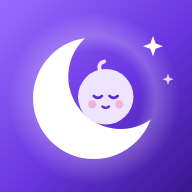
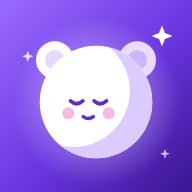
Add files via upload

Changed region(s): [[0.125, 0.125, 0.9062, 0.8438], [0.8438, 0.375, 0.9062, 0.4375], [0.8438, 0.7812, 0.875, 0.8438]]

diff --git a/index.html b/index.html
@@ -6,11 +6,11 @@
 <meta name="theme-color" content="#2a1766">
 <meta name="mobile-web-app-capable" content="yes">
 <meta name="apple-mobile-web-app-capable" content="yes">
-<meta name="apple-mobile-web-app-title" content="Dodo">
+<meta name="apple-mobile-web-app-title" content="Doudodo">
 <link rel="manifest" href="manifest.webmanifest">
 <link rel="icon" type="image/png" href="icon-192.png">
 <link rel="apple-touch-icon" href="apple-touch-icon.png">
-<title>Dodo - suivi bébé</title>
+<title>Doudodo - sommeil de bébé</title>
 <style>
 :root{
   --bg:#f6f2ff; --card:#ffffff; --raised:#efe8ff; --text:#1f1440; --muted:#62577f; --line:#e6defa;
@@ -195,7 +195,7 @@ textarea{min-height:90px;resize:vertical}
 <nav id="nav"></nav>
 
 <script>
-const LOGO_SVG = "<svg viewBox=\"0 0 512 512\" aria-hidden=\"true\"><defs><linearGradient id=\"sky\" x1=\"0\" y1=\"0\" x2=\"1\" y2=\"1\"><stop offset=\"0\" stop-color=\"#9a6bff\"/><stop offset=\".55\" stop-color=\"#6a35e0\"/><stop offset=\"1\" stop-color=\"#3a168f\"/></linearGradient><radialGradient id=\"halo\"><stop offset=\".55\" stop-color=\"#fff\" stop-opacity=\".0\"/><stop offset=\".72\" stop-color=\"#fff\" stop-opacity=\".22\"/><stop offset=\"1\" stop-color=\"#fff\" stop-opacity=\"0\"/></radialGradient><mask id=\"cr\"><rect width=\"512\" height=\"512\" fill=\"#000\"/><circle cx=\"250\" cy=\"262\" r=\"162\" fill=\"#fff\"/><circle cx=\"322\" cy=\"204\" r=\"140\" fill=\"#000\"/></mask></defs><rect width=\"512\" height=\"512\" fill=\"url(#sky)\"/><circle cx=\"250\" cy=\"262\" r=\"230\" fill=\"url(#halo)\"/><rect width=\"512\" height=\"512\" fill=\"#fff\" mask=\"url(#cr)\"/><circle cx=\"282\" cy=\"258\" r=\"74\" fill=\"#efe4ff\"/><path d=\"M268 190q-10-20 10-26\" fill=\"none\" stroke=\"#efe4ff\" stroke-width=\"10\" stroke-linecap=\"round\"/><circle cx=\"246\" cy=\"278\" r=\"11\" fill=\"#f2a3d3\" opacity=\".75\"/><circle cx=\"318\" cy=\"278\" r=\"11\" fill=\"#f2a3d3\" opacity=\".75\"/><path d=\"M250 256q11 10 22 0M292 256q11 10 22 0\" fill=\"none\" stroke=\"#5b2fc7\" stroke-width=\"7\" stroke-linecap=\"round\"/><path d=\"M273 284q9 7 18 0\" fill=\"none\" stroke=\"#5b2fc7\" stroke-width=\"6\" stroke-linecap=\"round\"/><path d=\"M408 96l7 20 20 7-20 7-7 20-7-20-20-7 20-7z\" fill=\"#fff\"/><path d=\"M448 196l4 11 11 4-11 4-4 11-4-11-11-4 11-4z\" fill=\"#fff\" opacity=\".8\"/></svg>";
+const LOGO_SVG = "<svg viewBox=\"0 0 512 512\" aria-hidden=\"true\"><defs><linearGradient id=\"sky\" x1=\"0\" y1=\"0\" x2=\"1\" y2=\"1\"><stop offset=\"0\" stop-color=\"#9a6bff\"/><stop offset=\".55\" stop-color=\"#6a35e0\"/><stop offset=\"1\" stop-color=\"#3a168f\"/></linearGradient><radialGradient id=\"halo\"><stop offset=\".5\" stop-color=\"#fff\" stop-opacity=\".28\"/><stop offset=\"1\" stop-color=\"#fff\" stop-opacity=\"0\"/></radialGradient><mask id=\"cr\"><rect width=\"512\" height=\"512\" fill=\"#000\"/><circle cx=\"256\" cy=\"272\" r=\"150\" fill=\"#fff\"/><circle cx=\"196\" cy=\"242\" r=\"150\" fill=\"#000\"/></mask></defs><rect width=\"512\" height=\"512\" fill=\"url(#sky)\"/><circle cx=\"256\" cy=\"272\" r=\"225\" fill=\"url(#halo)\"/><circle cx=\"146\" cy=\"160\" r=\"50\" fill=\"#fff\"/><circle cx=\"146\" cy=\"160\" r=\"26\" fill=\"#e6d8ff\"/><circle cx=\"366\" cy=\"160\" r=\"50\" fill=\"#e9dcff\"/><circle cx=\"366\" cy=\"160\" r=\"26\" fill=\"#cdb6ff\"/><circle cx=\"256\" cy=\"272\" r=\"150\" fill=\"#fff\"/><rect width=\"512\" height=\"512\" fill=\"#dccbff\" mask=\"url(#cr)\"/><circle cx=\"182\" cy=\"302\" r=\"16\" fill=\"#f2a3d3\" opacity=\".75\"/><circle cx=\"290\" cy=\"302\" r=\"16\" fill=\"#f2a3d3\" opacity=\".75\"/><path d=\"M188 269q16 15 33 0M251 269q16 15 33 0\" fill=\"none\" stroke=\"#5b2fc7\" stroke-width=\"10\" stroke-linecap=\"round\"/><path d=\"M222 311q14 10 27 0\" fill=\"none\" stroke=\"#5b2fc7\" stroke-width=\"9\" stroke-linecap=\"round\"/><path d=\"M432 68l7.840000000000001 20.16 20.16 7.840000000000001-20.16 7.840000000000001-7.840000000000001 20.16-7.840000000000001-20.16-20.16-7.840000000000001 20.16-7.840000000000001z\" fill=\"#fff\" opacity=\"1\"/><path d=\"M74 135l4.2 10.799999999999999 10.799999999999999 4.2-10.799999999999999 4.2-4.2 10.799999999999999-4.2-10.799999999999999-10.799999999999999-4.2 10.799999999999999-4.2z\" fill=\"#fff\" opacity=\"0.8\"/><path d=\"M440 397l3.6400000000000006 9.36 9.36 3.6400000000000006-9.36 3.6400000000000006-3.6400000000000006 9.36-3.6400000000000006-9.36-9.36-3.6400000000000006 9.36-3.6400000000000006z\" fill=\"#fff\" opacity=\"0.7\"/></svg>";
 // <LOGIC>
 const MIN = 60000, H = 3600000, DAY = 86400000;
 
@@ -497,7 +497,7 @@ function learnHTML(now){
   const l = learnInfo(now), name = esc(childName());
   if(l.pct >= 100) return `<div class="learn done"><span class="ic sleep">${icon('spark')}</span><span>Les horaires sont calculés d'après le rythme de ${name}.</span></div>`;
   return `<div class="learn">
-    <div class="head"><span class="ic sleep">${icon('spark')}</span><b>Dodo apprend le rythme de ${name}</b><span class="pct">${l.pct} %</span></div>
+    <div class="head"><span class="ic sleep">${icon('spark')}</span><b>Doudodo apprend le rythme de ${name}</b><span class="pct">${l.pct} %</span></div>
     <div class="bar" role="progressbar" aria-valuenow="${l.pct}" aria-valuemin="0" aria-valuemax="100"><i style="width:${Math.max(l.pct, 3)}%"></i></div>
     <div class="note">${l.got} sieste${l.got > 1 ? 's' : ''} analysée${l.got > 1 ? 's' : ''} sur ${l.total}. En attendant, les horaires proposés viennent des repères de son âge. Enregistre le réveil du matin et chaque sieste pour qu'ils deviennent personnels.</div></div>`;
 }
@@ -541,8 +541,8 @@ function skyHTML(p, now){
     else if(now <= p.to) st = '<span class="state now">C\'est le bon moment</span>';
     else st = `<span class="state late">Créneau dépassé de ${fmtD((now - p.to) / MIN)}</span>`;
     let why = p.w.n >= 3 ? `Calculé d'après ${p.w.n} ${p.bedtime ? 'couchers' : 'siestes'} de ${name}.`
-      : p.w.n > 0 ? 'Calculé surtout d\'après son âge, Dodo manque encore de données.'
-      : 'Calculé d\'après son âge. Dodo affinera avec tes saisies.';
+      : p.w.n > 0 ? 'Calculé surtout d\'après son âge, Doudodo manque encore de données.'
+      : 'Calculé d\'après son âge. Doudodo affinera avec tes saisies.';
     if(p.adjMin <= -5) why += ` Avancé de ${-p.adjMin} min car la dernière sieste a été courte.`;
     if(p.adjMin >= 5) why += ` Retardé de ${p.adjMin} min car la dernière sieste a été longue.`;
     const evening = new Date(now).getHours() >= 17;
@@ -560,7 +560,7 @@ function skyHTML(p, now){
       <p class="why">${why}</p></section>`;
   }
   return `<section class="sky">
-    <p class="lead">Bonjour ! Pour calculer la première sieste, Dodo a besoin de l'heure du réveil.</p>
+    <p class="lead">Bonjour ! Pour calculer la première sieste, Doudodo a besoin de l'heure du réveil.</p>
     <div class="time small">À quelle heure était le réveil de ${name} ce matin ?</div>
     <button class="cta" data-act="wake"><b>À l'instant</b><small>Enregistre le réveil à l'heure actuelle</small></button>
     <div class="ghosts"><button class="ghost" data-act="add" data-type="wake" data-lock="1">Plus tôt, choisir l'heure</button></div></section>`;
@@ -619,7 +619,7 @@ function homeHTML(){
   const age = ageText(S.child.birth);
   const lm = lastOf(e => e.type === 'bottle'), ld = lastOf(e => e.type === 'diaper'), lmed = lastOf(e => e.type === 'med' && now - e.start < DAY);
   const todayEv = eventsOfDay(today);
-  return `<header class="top">${LOGO_SVG}<div><div class="brand">${esc(S.child.name || 'Dodo')}</div>
+  return `<header class="top">${LOGO_SVG}<div><div class="brand">${esc(S.child.name || 'Doudodo')}</div>
       <div class="who">${age ? esc(age) : '<a href="#" data-act="tab" data-tab="set">Indique sa date de naissance</a>'}${syncBadge()}</div></div></header>
     ${warnHTML(now)}
     ${skyHTML(p, now)}
@@ -694,7 +694,7 @@ function statsHTML(){
     <div class="card">${acc.n >= 5 ? `<div class="big">${Math.round(acc.mae)} min d'écart</div>
       <p class="note" style="margin:6px 0 0">Écart moyen entre l'heure conseillée et le début réel, sur les ${acc.n} dernières siestes. ${acc.hit} % ont commencé dans le créneau conseillé. Ce chiffre est flatteur si tu suis les conseils de l'appli.</p>`
       : '<p class="note" style="margin:0">Pas encore assez de siestes enregistrées pour mesurer la fiabilité (il en faut au moins 5).</p>'}</div>
-    <h2>Ce que Dodo a appris</h2>
+    <h2>Ce que Doudodo a appris</h2>
     ${learnHTML(now)}
     <div class="card"><table><tr><th>Sieste</th><th>Éveil selon l'âge</th><th>Éveil observé</th><th>Durée de sieste</th></tr>${learn}</table>
     <p class="note" style="margin:10px 0 0">L'éveil est le temps passé réveillé avant la sieste. Rythme actuel : ${model.typicalNaps} sieste${model.typicalNaps > 1 ? 's' : ''} par jour. Coucher du soir habituel : ${model.bedClock.n ? clock(model.bedClock.mean) : 'pas encore connu (19:30 par défaut)'}. Réveil du matin habituel : ${model.wakeClock != null ? clock(model.wakeClock) : 'pas encore connu'}.</p></div>`;
@@ -711,17 +711,17 @@ function settingsHTML(){
     </div>
     <h2>Rappels</h2>
     <div class="card">
-      <div class="switch"><div><b>Prévenir avant la sieste</b><span class="note">${nOk === 'unsupported' ? 'Ce navigateur ne gère pas les notifications.' : nOk === 'denied' ? 'Notifications bloquées : autorise-les dans les réglages du téléphone pour Dodo.' : 'Une notification avant le créneau conseillé.'}</span></div>
+      <div class="switch"><div><b>Prévenir avant la sieste</b><span class="note">${nOk === 'unsupported' ? 'Ce navigateur ne gère pas les notifications.' : nOk === 'denied' ? 'Notifications bloquées : autorise-les dans les réglages du téléphone pour Doudodo.' : 'Une notification avant le créneau conseillé.'}</span></div>
         <button class="${S.settings.notif && nOk === 'granted' ? 'on' : ''}" data-act="notif" role="switch" aria-checked="${S.settings.notif && nOk === 'granted'}" aria-label="Prévenir avant la sieste"></button></div>
       <label>Combien de temps avant</label>
       <select id="s_lead">${[5,10,15,20,30].map(m => `<option value="${m}"${S.settings.lead === m ? ' selected' : ''}>${m} minutes avant</option>`).join('')}</select>
-      <div class="note" style="margin-top:8px">Le rappel part si Dodo est ouvert ou resté en arrière-plan récemment. Android peut le retarder ou le supprimer si l'appli est fermée depuis longtemps.</div>
+      <div class="note" style="margin-top:8px">Le rappel part si Doudodo est ouvert ou resté en arrière-plan récemment. Android peut le retarder ou le supprimer si l'appli est fermée depuis longtemps.</div>
     </div>
     <h2>Partage entre téléphones</h2>
     ${syncCardHTML()}
     <h2>Sauvegarde</h2>
     <div class="card">
-      <div class="note">${S.sync ? 'Sauvegarde automatique active : chaque saisie est copiée dans le foyer partagé.' : 'Les données sont enregistrées sur ce téléphone uniquement.'} Dodo garde aussi une copie automatique par jour sur ce téléphone.</div>
+      <div class="note">${S.sync ? 'Sauvegarde automatique active : chaque saisie est copiée dans le foyer partagé.' : 'Les données sont enregistrées sur ce téléphone uniquement.'} Doudodo garde aussi une copie automatique par jour sur ce téléphone.</div>
       ${snaps.map((s, i) => `<button class="btn sec small" data-act="restoresnap" data-i="${i}">Revenir à la copie du ${esc(s.day.split('-').reverse().slice(0, 2).join('/'))}</button>`).join('')}
       ${S.sync ? '<button class="btn sec small" data-act="synchistory">Récupérer tout l\'historique du foyer</button>' : ''}
       <button class="btn sec small" data-act="exportjson">Télécharger une sauvegarde</button>
@@ -858,7 +858,7 @@ function exportCSV(){
   const rows = [['type', 'debut', 'fin', 'duree_min', 'ml', 'detail', 'valeur', 'note']];
   S.events.slice().sort((a,b) => a.start - b.start).forEach(e => rows.push([
     e.type, loc(e.start), loc(e.end), e.end ? Math.round((e.end - e.start) / MIN) : '', e.ml ?? '', [e.kind, e.side].filter(Boolean).join(' '), e.val ?? '', e.note ?? '']));
-  download('dodo.csv', 'text/csv', '' + rows.map(r => r.map(cell).join(';')).join('\n'));
+  download('doudodo.csv', 'text/csv', '' + rows.map(r => r.map(cell).join(';')).join('\n'));
 }
 function importData(j, what){
   if(!j || !Array.isArray(j.events)){ toast('Fichier invalide'); return; }
@@ -1188,7 +1188,7 @@ function act(el){
   else if(a === 'prevday'){ const d = new Date(viewDay); d.setDate(d.getDate() - 1); viewDay = d.getTime(); render(); }
   else if(a === 'nextday'){ const d = new Date(viewDay); d.setDate(d.getDate() + 1); viewDay = Math.min(d.getTime(), startOfDay(now)); render(); }
   else if(a === 'notif') toggleNotif();
-  else if(a === 'exportjson') download('dodo-sauvegarde-' + toInput(now).slice(0, 10) + '.json', 'application/json', JSON.stringify({child: S.child, events: S.events}, null, 1));
+  else if(a === 'exportjson') download('doudodo-sauvegarde-' + toInput(now).slice(0, 10) + '.json', 'application/json', JSON.stringify({child: S.child, events: S.events}, null, 1));
   else if(a === 'exportcsv') exportCSV();
   else if(a === 'importjson') $('#importfile').click();
   else if(a === 'restoresnap'){ const s = snapshots()[+el.dataset.i]; if(s) importData(s, 'la copie du ' + s.day.split('-').reverse().slice(0, 2).join('/')); }
@@ -1197,7 +1197,7 @@ function act(el){
   else if(a === 'syncjoin') joinFamily($('#j_code') ? $('#j_code').value : '');
   else if(a === 'syncleave') leaveFamily();
   else if(a === 'synccopy'){ navigator.clipboard.writeText(S.sync.fid).then(() => toast('Code copié'), () => prompt('Copie ce code :', S.sync.fid)); }
-  else if(a === 'syncshare'){ navigator.share({text: 'Code Dodo : ' + S.sync.fid}).catch(() => {}); }
+  else if(a === 'syncshare'){ navigator.share({text: 'Code Doudodo : ' + S.sync.fid}).catch(() => {}); }
   else if(a === 'wipe'){
     if(S.sync){ toast("Quitte d'abord le foyer pour tout effacer"); return; }
     if(confirm('Effacer TOUTES les données de ce téléphone ? Pense à télécharger une sauvegarde avant.') && confirm('Vraiment tout effacer ?')){
